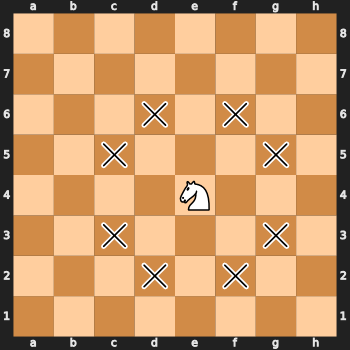
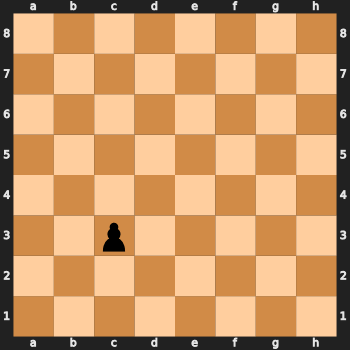
Add files via upload

diff --git a/mission.py b/mission.py
@@ -15,9 +15,14 @@ import matplotlib.image as mpimg
 class cl_mission:
 
     def showFriendlies(self,squads):
-        board = chess.Board("8/8/8/8/4N3/8/8/8 w - - 0 1")
-        squares = board.attacks(chess.E4)
-        tmp = chess.svg.board(board, squares=squares, size=350)
+
+        board = chess.Board(fen=None)
+
+        for squad in squads:
+            sq = squad.location[1]*8+squad.location[0]
+            board.set_piece_at(square=sq , piece=chess.Piece(piece_type=chess.PAWN,color=chess.BLACK))
+
+        tmp = chess.svg.board(board,size=350)
         with open("tmp.svg", "w") as text_file:
             print("{}".format(tmp), file=text_file)
         drawing = svg2rlg("tmp.svg")

diff --git a/squad.py b/squad.py
@@ -38,7 +38,7 @@ class cl_squad:
         self.radio = 0
 
         self.orders = []
-        self.location = (0,0)
+        self.location = (2,2)
 
         self.name = str(name)    # instance variable unique to each instance
         print("\n----> Your squad is {}'s raiders.".format(name))

diff --git a/README.md b/README.md
@@ -5,9 +5,3 @@ The repository contains the source code for a simulation video game. The player 
 [See LICENSE file](https://github.com/alonzi/currahee/blob/main/LICENSE)
 
 ![](https://github.com/alonzi/currahee/blob/main/images/Cc-by-nc-sa.png)
-
-
-## notes
-https://python-chess.readthedocs.io/en/latest/svg.html
-https://pypi.org/project/svglib/
-

diff --git a/foo.md b/foo.md
@@ -1,1 +1,6 @@
 [USACE paper](https://apps.dtic.mil/dtic/tr/fulltext/u2/a242673.pdf)
+
+https://python-chess.readthedocs.io/en/latest/core.html#chess.A1
+chess.square_distance(a: chess.Square, b: chess.Square) → int
+        #board = chess.Board("8/8/8/8/4N3/8/8/8 w - - 0 1")
+        #squares = board.attacks(chess.E4)
